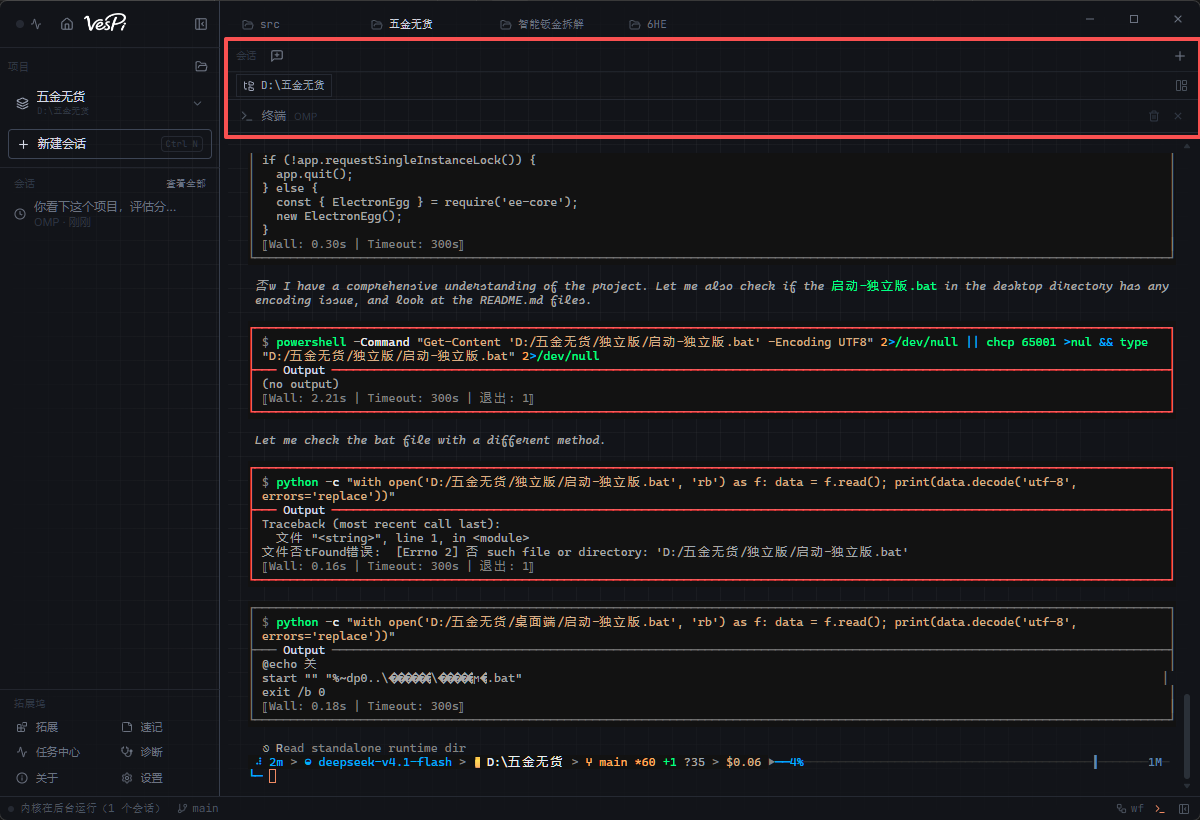
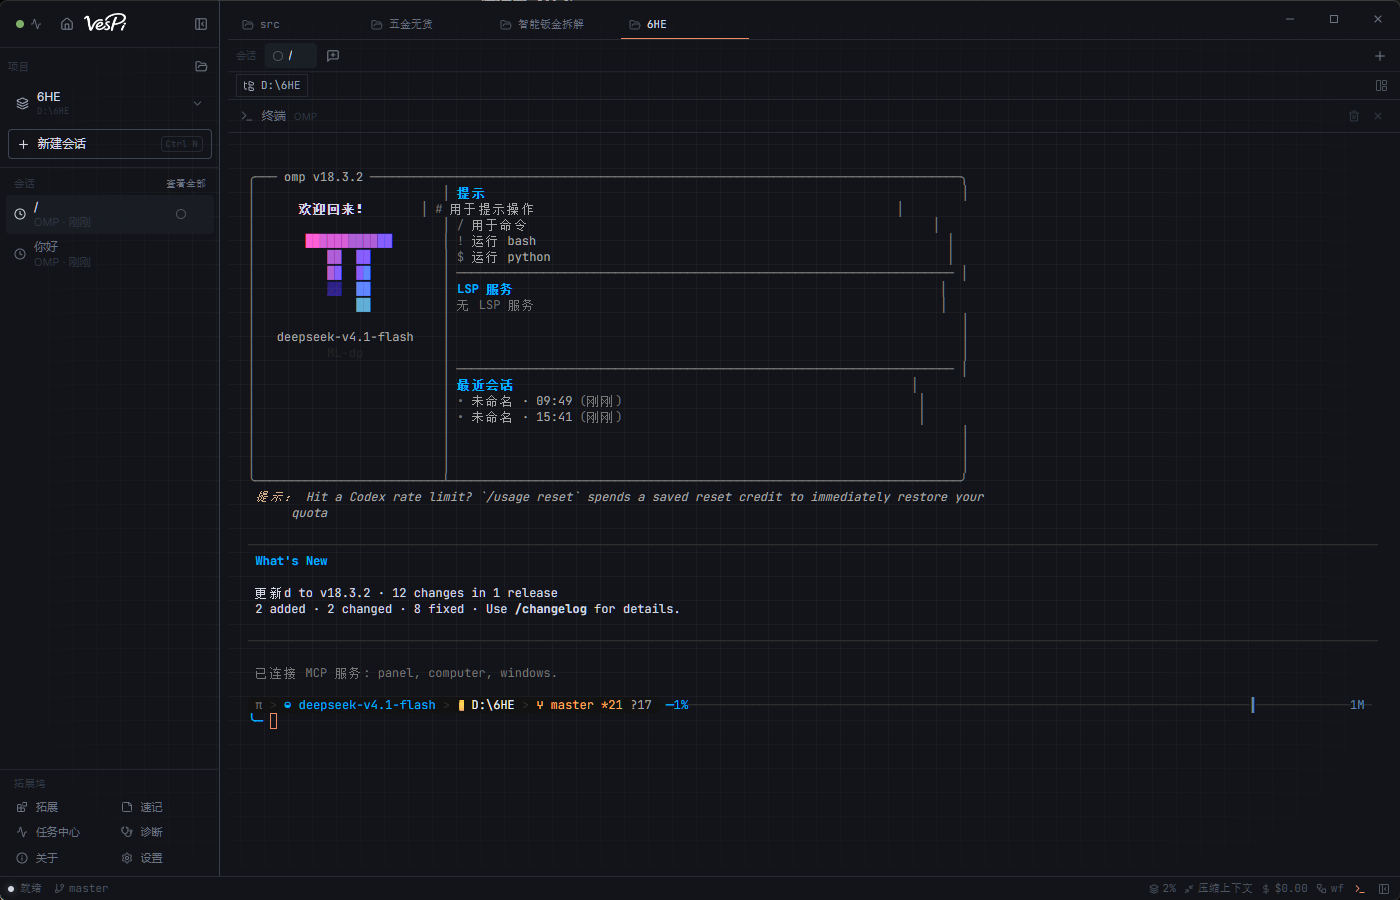
Rewrite README and screenshots for the terminal-first redesign
Product is now settings + workspaces + OMP TUI in a terminal. Drop stale settings screenshots; ship three current UI shots. Release notes for 1.1.1 describe the break and the OMP-source wiring.

diff --git a/README.md b/README.md
@@ -6,161 +6,193 @@
 </p>
 
 <p align="center">
-  <b>Windows 上的 OMP 桌面客户端</b><br>
-  把 Oh My Pi 的完整执行能力，收进一个可监督的窗口
+  <b>Windows 上的 OMP 桌面外壳</b><br>
+  终端优先 · 多工作区 · 中文 TUI · 设置直达 OMP 配置
 </p>
 
 <p align="center">
-  <a href="https://github.com/esseener/VesPi/releases/latest"><img alt="release" src="https://img.shields.io/github/v/release/esseener/VesPi?color=7c6ff7"></a>
-  <a href="https://github.com/esseener/VesPi/releases"><img alt="downloads" src="https://img.shields.io/github/downloads/esseener/VesPi/total?color=7c6ff7"></a>
+  <a href="https://github.com/esseener/VesPi/releases/latest"><img alt="release" src="https://img.shields.io/github/v/release/esseener/VesPi?color=e8734a"></a>
+  <a href="https://github.com/esseener/VesPi/releases"><img alt="downloads" src="https://img.shields.io/github/downloads/esseener/VesPi/total?color=e8734a"></a>
   <img alt="platform" src="https://img.shields.io/badge/platform-Windows%20x64-0078D6">
-  <img alt="kernel" src="https://img.shields.io/badge/kernel-Oh%20My%20Pi-111111">
+  <img alt="kernel" src="https://img.shields.io/badge/kernel-OMP%2018.3.2-111111">
   <a href="LICENSE"><img alt="license" src="https://img.shields.io/badge/license-Apache--2.0-blue"></a>
 </p>
 
 <p align="center">
   <a href="https://esseener.github.io/VesPi/">官网</a> ·
   <a href="#下载与安装">下载</a> ·
+  <a href="#产品形态">产品形态</a> ·
   <a href="#功能">功能</a> ·
   <a href="#常见问题">常见问题</a> ·
-  <a href="#从源码构建">从源码构建</a> ·
-  <a href="CONTRIBUTING.md">参与贡献</a>
+  <a href="#从源码构建">从源码构建</a>
 </p>
 
 ---
 
 ## 简介
 
-VesPi 是 Windows 上的 **[Oh My Pi（OMP）](https://github.com/can1357/oh-my-pi)** 桌面客户端。
-会话、Diff、终端、权限、模型与设置集中在同一个窗口，**内核随安装包一并交付** —— 安装后选择
-工作区、配置模型，即可开始工作。
+**VesPi** 是 **[Oh My Pi（OMP）](https://github.com/can1357/oh-my-pi)** 的 Windows 桌面外壳。
 
-它**不是**网页套壳，不是终端界面的像素复制，也不自带第二套 Agent 实现：Agent 循环、工具、
-子代理与会话始终由 OMP 负责，VesPi 负责界面、权限审批与进程治理。
+这一代产品**彻底改版**：界面从「聊天面板 + 侧栏」收敛为 **设置 + 工作区分类 + 终端**。
+真正的 Agent 交互发生在终端里的 **OMP TUI**；GUI 不再扮演第二套聊天界面，只负责
+窗口管理、工作区切换、配置写入与中文显示层。
 
 | | |
 |---|---|
-| 内核 | 私有 `omp.exe`，以 `--profile vespi --mode rpc-ui` 启动，版本随应用锁定 |
-| 运行时依赖 | **无**。不需要 Node、Bun，也不需要 PATH 上有 `omp` |
-| 会话位置 | `~/.omp/profiles/VesPi/agent/sessions` |
-| 数据 | 会话、用量统计与配置保存在本机，不上传 |
+| 主交互面 | 终端内嵌 `omp --profile vespi` TUI（完整能力） |
+| GUI 职责 | 工作区标签、会话索引、设置（写入 OMP profile）、主题与字号 |
+| 内核 | 随安装包交付的 `omp.exe`（当前 **18.3.2**），不读全局 PATH |
+| 运行时依赖 | **无**。不需要 Node、Bun |
+| 会话位置 | `~/.omp/profiles/vespi/agent/sessions` |
+| 配置位置 | `~/.omp/profiles/vespi/agent/config.yml`（GUI 与 TUI 共用） |
+
+**OMP 是能力真源。** 工具、子代理、会话、斜杠命令全部由 TUI 提供；VesPi 的按钮
+尽量驱动同一套 OMP 语义（`/new`、`/resume`、`/rename`、`config.yml`）。
+
+## 产品形态
+
+```text
+┌─────────────────────────────────────────────┐
+│  工作区标签   src │ 项目A │ 项目B │  +      │
+├──────────┬──────────────────────────────────┤
+│ 会话列表  │                                  │
+│ 项目树    │        OMP TUI（终端）           │
+│ 设置/诊断 │   欢迎页 · 对话 · 工具 · 框线    │
+│          │                                  │
+│          │   π > ● model ▸ path ▸ git       │
+└──────────┴──────────────────────────────────┘
+```
+
+- **顶栏** = 多工作区切换（每个工作区独立 cwd / 会话索引）
+- **中央** = 终端，直接跑 OMP TUI，不是伪终端聊天
+- **侧栏** = 会话、文件、设置、诊断等入口
+- **设置** = 写入 OMP profile（主题、符号、思考等级、模型）
 
 ## 界面
 
 <p align="center">
-  <img src="docs/screenshots/vespi-home.png" width="720" alt="VesPi 首页：用量看板与最近工作区">
+  <img src="docs/screenshots/vespi-main.png" width="720" alt="VesPi 主界面：工作区、会话条与 OMP 终端">
 </p>
 
 <p align="center">
-  <img src="docs/screenshots/vespi-settings.png" width="47%" alt="VesPi 设置：外观、字体与权限">
-  <img src="docs/screenshots/vespi-settings-models.png" width="47%" alt="VesPi 设置：模型供应商与自定义模型">
+  <img src="docs/screenshots/vespi-terminal.png" width="47%" alt="OMP TUI 欢迎页与直角框线">
+  <img src="docs/screenshots/vespi-chat.png" width="47%" alt="OMP TUI 对话、工具输出与中文显示层">
 </p>
 
 ## 功能
 
-**Agent 执行**
+**终端优先**
 
-- 流式回答，思考过程默认折叠，需要时点开查看
-- 工具调用逐条成卡，显示执行状态、耗时与输出，连续调用自动归组
-- 目标模式：跨多轮的任务交给一个持续目标，进度与 Token 消耗实时可见
-- 子代理并行执行，进度汇总在输入框上方
+- 完整 PTY 内嵌 OMP TUI，ANSI 真彩色、框线、滚动齐全
+- 中文显示层：TUI 英文界面覆盖为中文（等宽替换，不撑歪框线）
+- 圆角框规范为直角，灰字对比度提升，字号/行高按 DPI 校准
+- 内核更新后自动重启终端并刷新译包
 
-**会话与并行**
+**工作区与会话**
 
-- 每个会话独占一个内核进程，切换到其他项目不会中断当前任务
-- Mission Control 总览所有工作区正在运行的会话
-- 新任务可投递到后台会话，需要隔离时为它单独开一个 Git Worktree
-- 分叉、克隆、重命名、标签、搜索与归档
+- 多工作区标签，切换即换 cwd 并重启 TUI
+- 侧栏会话列表与 OMP 会话存储同步
+- 「新建会话」→ 终端 `/new`；打开会话 → `/resume`；重命名 → `session_info` + `/rename`
+- 删除当前会话后 TUI 自动开新会话
 
-**审查与权限**
+**设置 = OMP 配置**
 
-- 文件写入与命令执行可逐次审批，也可按工具、按目录设置放行规则
-- Diff 在对话内呈现，逐文件查看
-- Review 栏汇总改动文件、权限请求与会话状态
-- 未标记信任的仓库只能收紧权限，不能放宽
+| GUI | 写入 |
+|-----|------|
+| OMP 主题 | `theme.dark`（anthracite / titanium / …） |
+| 符号集 | `symbolPreset` |
+| 默认思考等级 | `thinking.defaultLevel` |
+| 选择模型 | `modelRoles.default` + TUI `/model` |
+| 思考等级 | `thinking.defaultLevel` + TUI `/thinking` |
 
-**开发工具**
+配置为**合并写入**，不覆盖无关字段。GUI 自己的字号、语言、主题仍属 VesPi 外壳。
 
-- 文件树与文件搜索；代码、图片、PDF、HTML 内嵌预览
-- CodeMirror 6 编辑器，多语言语法高亮
-- 集成终端（完整 PTY，支持 ANSI 颜色）
-- 内嵌浏览器面板，Agent 可直接操作页面，过程同步可见
+**外观**
 
-**模型与维护**
+- Anthracite 深色为主，墨色底 + 橙强调色
+- 终端透明底，透出窗口网格；自定义滚动条
+- 灰色/半亮文字对比度强制达标（可读）
 
-- 多供应商接入，随时切换模型与思考等级
-- 技能与工具扩展管理，支持接入 MCP 服务
-- 用量看板：消息数、Token、活跃天数与模型占比，实时更新
-- 应用内更新：界面与内核分别升级，覆盖安装保留会话与配置
+**维护**
+
+- 界面与内核双通道更新（GitHub Releases）
+- 内核锁定 `resources/omp-runtime-lock.json`，打包前校验
+- 会话、配置、用量统计仅存本机
+
+## 中文层说明
+
+OMP TUI 由内核绘制，GUI **不能改它的排版**，只能在输出流上做覆盖翻译：
+
+- 等宽替换（中文双宽补空格），保证框线列对齐
+- 词边界匹配，避免 `Updated` → `更新d`
+- 轮换 Tip 按片段汉化
+- 动态内容（模型名、路径、版本号）保留原文
+
+要做到整屏无英文，需 OMP 内核自带 i18n。当前中文层是**实用近似**，不是官方本地化。
 
 ## 下载与安装
 
-前往 **[Releases](https://github.com/esseener/VesPi/releases/latest)** 下载最新安装包：
+前往 **[Releases](https://github.com/esseener/VesPi/releases/latest)** 下载：
 
 ```
 VesPi-Setup-<version>-win-x64.exe
 ```
 
-按提示完成安装，启动后在首页选择工作区、配置模型供应商，然后输入任务。
+安装后启动：选工作区 → 配置模型 → 在终端里和 OMP 对话。
 
-> **关于安全提示**：当前构建未做代码签名，首次运行 Windows SmartScreen 会给出提示，
-> 选择「更多信息」→「仍要运行」即可。安装包附有 `SHA256SUMS.txt`，可校验完整性；
-> 也可以直接从源码构建。
+> **安全提示**：当前构建未做代码签名。SmartScreen 选「更多信息」→「仍要运行」。
+> 安装包附 `SHA256SUMS.txt`，可校验完整性。
 
 ## 系统要求
 
 | | |
 |---|---|
 | 操作系统 | Windows 10 / 11（x64） |
-| 磁盘空间 | 约 500 MB |
-| 运行时 | 无需预装任何运行时或全局命令行工具 |
-| 网络 | 首次使用需配置模型供应商；更新从 GitHub 获取 |
+| 磁盘空间 | 约 600 MB |
+| 运行时 | 无需预装 |
+| 显示 | 建议 100% 缩放以获得最直的 TUI 框线 |
 
 ## 常见问题
 
-**需要先安装 Node、Bun 或 OMP 吗？**
-不需要。内核随安装包交付，不写入 PATH，也不读取全局安装的 `omp`。
+**为什么主界面是终端，不是聊天窗？**  
+OMP 的完整能力在 TUI 里（工具、子代理、斜杠命令、权限）。GUI 只做窗口与配置，避免两套逻辑打架。
 
-**内核可以自行替换吗？**
-内核版本随应用锁定，避免与界面版本错配；升级通过应用内更新完成，无需手动替换文件。
+**GUI 按钮会驱动 OMP 吗？**  
+会话新建/打开/重命名/删除、模型与思考、OMP 主题会写入 profile 或注入 TUI 命令。
+Git 传送带是本地 `git`（界面已标注「不经 agent」）。
 
-**会自动修改我的项目或系统环境吗？**
-不会。所有文件写入与命令执行都在权限审批之下，可按工具与目录配置规则。
+**需要预装 OMP / Node 吗？**  
+不需要。内核随安装包交付，不写 PATH。
 
-**数据存放在哪里？**
-会话、用量统计与配置都在本机用户目录，不会上传。删除会话后历史统计仍会保留。
+**数据在哪？**  
+`~/.omp/profiles/vespi/`，全部本机。
 
-**怎么更新？会丢配置吗？**
-应用内检查并下载更新，界面与内核分别升级；覆盖安装会保留会话记录与配置。
-
-**有 Windows 以外的版本吗？**
-当前正式支持 Windows x64。其他平台需要对应的内核构建后再行支持。
+**终端框线不直？**  
+请将 Windows 显示缩放设为 100%。字号与行高已按整像素校准。
 
 ## 从源码构建
 
-需要 Node.js 22 或更高版本。
+需要 Node.js 22+。
 
 ```bash
 git clone https://github.com/esseener/VesPi.git
 cd VesPi
 npm install
-npm run dev                # 开发模式
-npm run check              # 类型检查 + lint + 测试 + 发布一致性 + 构建
-npm run package:win:nsis   # 生成 Windows 安装包
+npm run dev
+npm run check              # typecheck + lint + test + 发布一致性 + build
+npm run package:win:nsis   # Windows 安装包
 ```
 
-内核不在版本库中：构建与打包脚本会按 `resources/omp-runtime-lock.json` 声明的版本与
-SHA-256 准备并校验内核，产物输出到 `release/`。
+内核不在仓库中：按 `resources/omp-runtime-lock.json` 下载并校验。
 
 ## 参与贡献
 
-欢迎提交 Issue 与 Pull Request。请先阅读 [CONTRIBUTING.md](CONTRIBUTING.md)（含
-[CLA](CLA.md) 说明）；安全相关问题的反馈方式见 [.github/SUPPORT.md](.github/SUPPORT.md)。
+Issue / PR 欢迎。见 [CONTRIBUTING.md](CONTRIBUTING.md)；安全问题见 [.github/SUPPORT.md](.github/SUPPORT.md)。
 
 ## 许可证
 
-Apache-2.0，见 [LICENSE](LICENSE)。本项目包含源自上游 Apache-2.0 项目的桌面界面代码，
-其版权与许可声明见 [NOTICE](NOTICE)；Agent 执行由 [oh-my-pi](https://github.com/can1357/oh-my-pi) 提供。
+Apache-2.0，见 [LICENSE](LICENSE)。桌面界面部分源自上游 Apache-2.0 项目，见 [NOTICE](NOTICE)。
+Agent 执行由 [oh-my-pi](https://github.com/can1357/oh-my-pi) 提供。捆绑 [Laya](https://github.com/NandhaKishorM/laya)（Apache-2.0）用于译名决策。
 
 ---
 
@@ -169,36 +201,18 @@ Apache-2.0，见 [LICENSE](LICENSE)。本项目包含源自上游 Apache-2.0 项
 
 <br>
 
-**VesPi** is the Windows desktop client for the **[Oh My Pi (OMP)](https://github.com/can1357/oh-my-pi)**
-coding agent. Chat, Diff, terminal, permissions, models and settings live in one window, and the
-kernel ships inside the installer — no Node, no Bun, no global `omp` on PATH.
+**VesPi** is the Windows desktop shell for the **[Oh My Pi (OMP)](https://github.com/can1357/oh-my-pi)**
+agent kernel. This generation is a **full redesign**: the UI is now **settings + workspaces + terminal**.
+The real agent surface is the **OMP TUI inside the terminal**; the GUI manages windows, workspaces,
+and writes OMP profile config.
 
-VesPi is not a web wrapper, not a pixel copy of the terminal UI, and not a second agent harness:
-the agent loop, tools, subagents and sessions stay with OMP. VesPi provides the interface, the
-permission gate and process management.
+- **Terminal-first** — full PTY hosting `omp --profile vespi`, Chinese display overlay, square boxes
+- **Workspaces** — tab strip, per-workspace cwd and session index
+- **Settings → OMP** — `theme.dark`, `symbolPreset`, `thinking.defaultLevel`, `modelRoles.default`
+- **Sessions** — `/new`, `/resume`, `/rename` drive the OMP session store
+- **Kernel** — ships in the installer (18.3.2), never a global `omp`
 
-- **Agent** — streaming replies with collapsible thinking, per-call tool cards, goal mode with live
-  progress, parallel subagents
-- **Sessions** — one kernel process per session, Mission Control across workspaces, background
-  sessions with optional Git worktrees, fork / clone / tag / search / archive
-- **Review** — per-call approval with per-tool and per-directory rules, in-chat diffs, review rail,
-  workspace trust that can only tighten
-- **Tools** — file tree and search, inline previews (code, image, PDF, HTML), CodeMirror 6 editor,
-  a full PTY terminal, and an embedded browser the agent can drive
-- **Models** — multiple providers, switchable models and thinking levels, skills, MCP servers
-- **Maintenance** — live usage dashboard, in-app updates for both the shell and the kernel
-
-Download the latest `VesPi-Setup-<version>-win-x64.exe` from
-[Releases](https://github.com/esseener/VesPi/releases/latest). The current build is unsigned;
-Windows SmartScreen will prompt once — see the note above.
-
-Build from source with Node.js 22+:
-
-```bash
-npm install && npm run dev
-```
-
-Licensed under Apache-2.0. See [NOTICE](NOTICE) for the upstream attribution of the desktop
-UI code.
+Download `VesPi-Setup-<version>-win-x64.exe` from
+[Releases](https://github.com/esseener/VesPi/releases/latest). Apache-2.0.
 
 </details>
